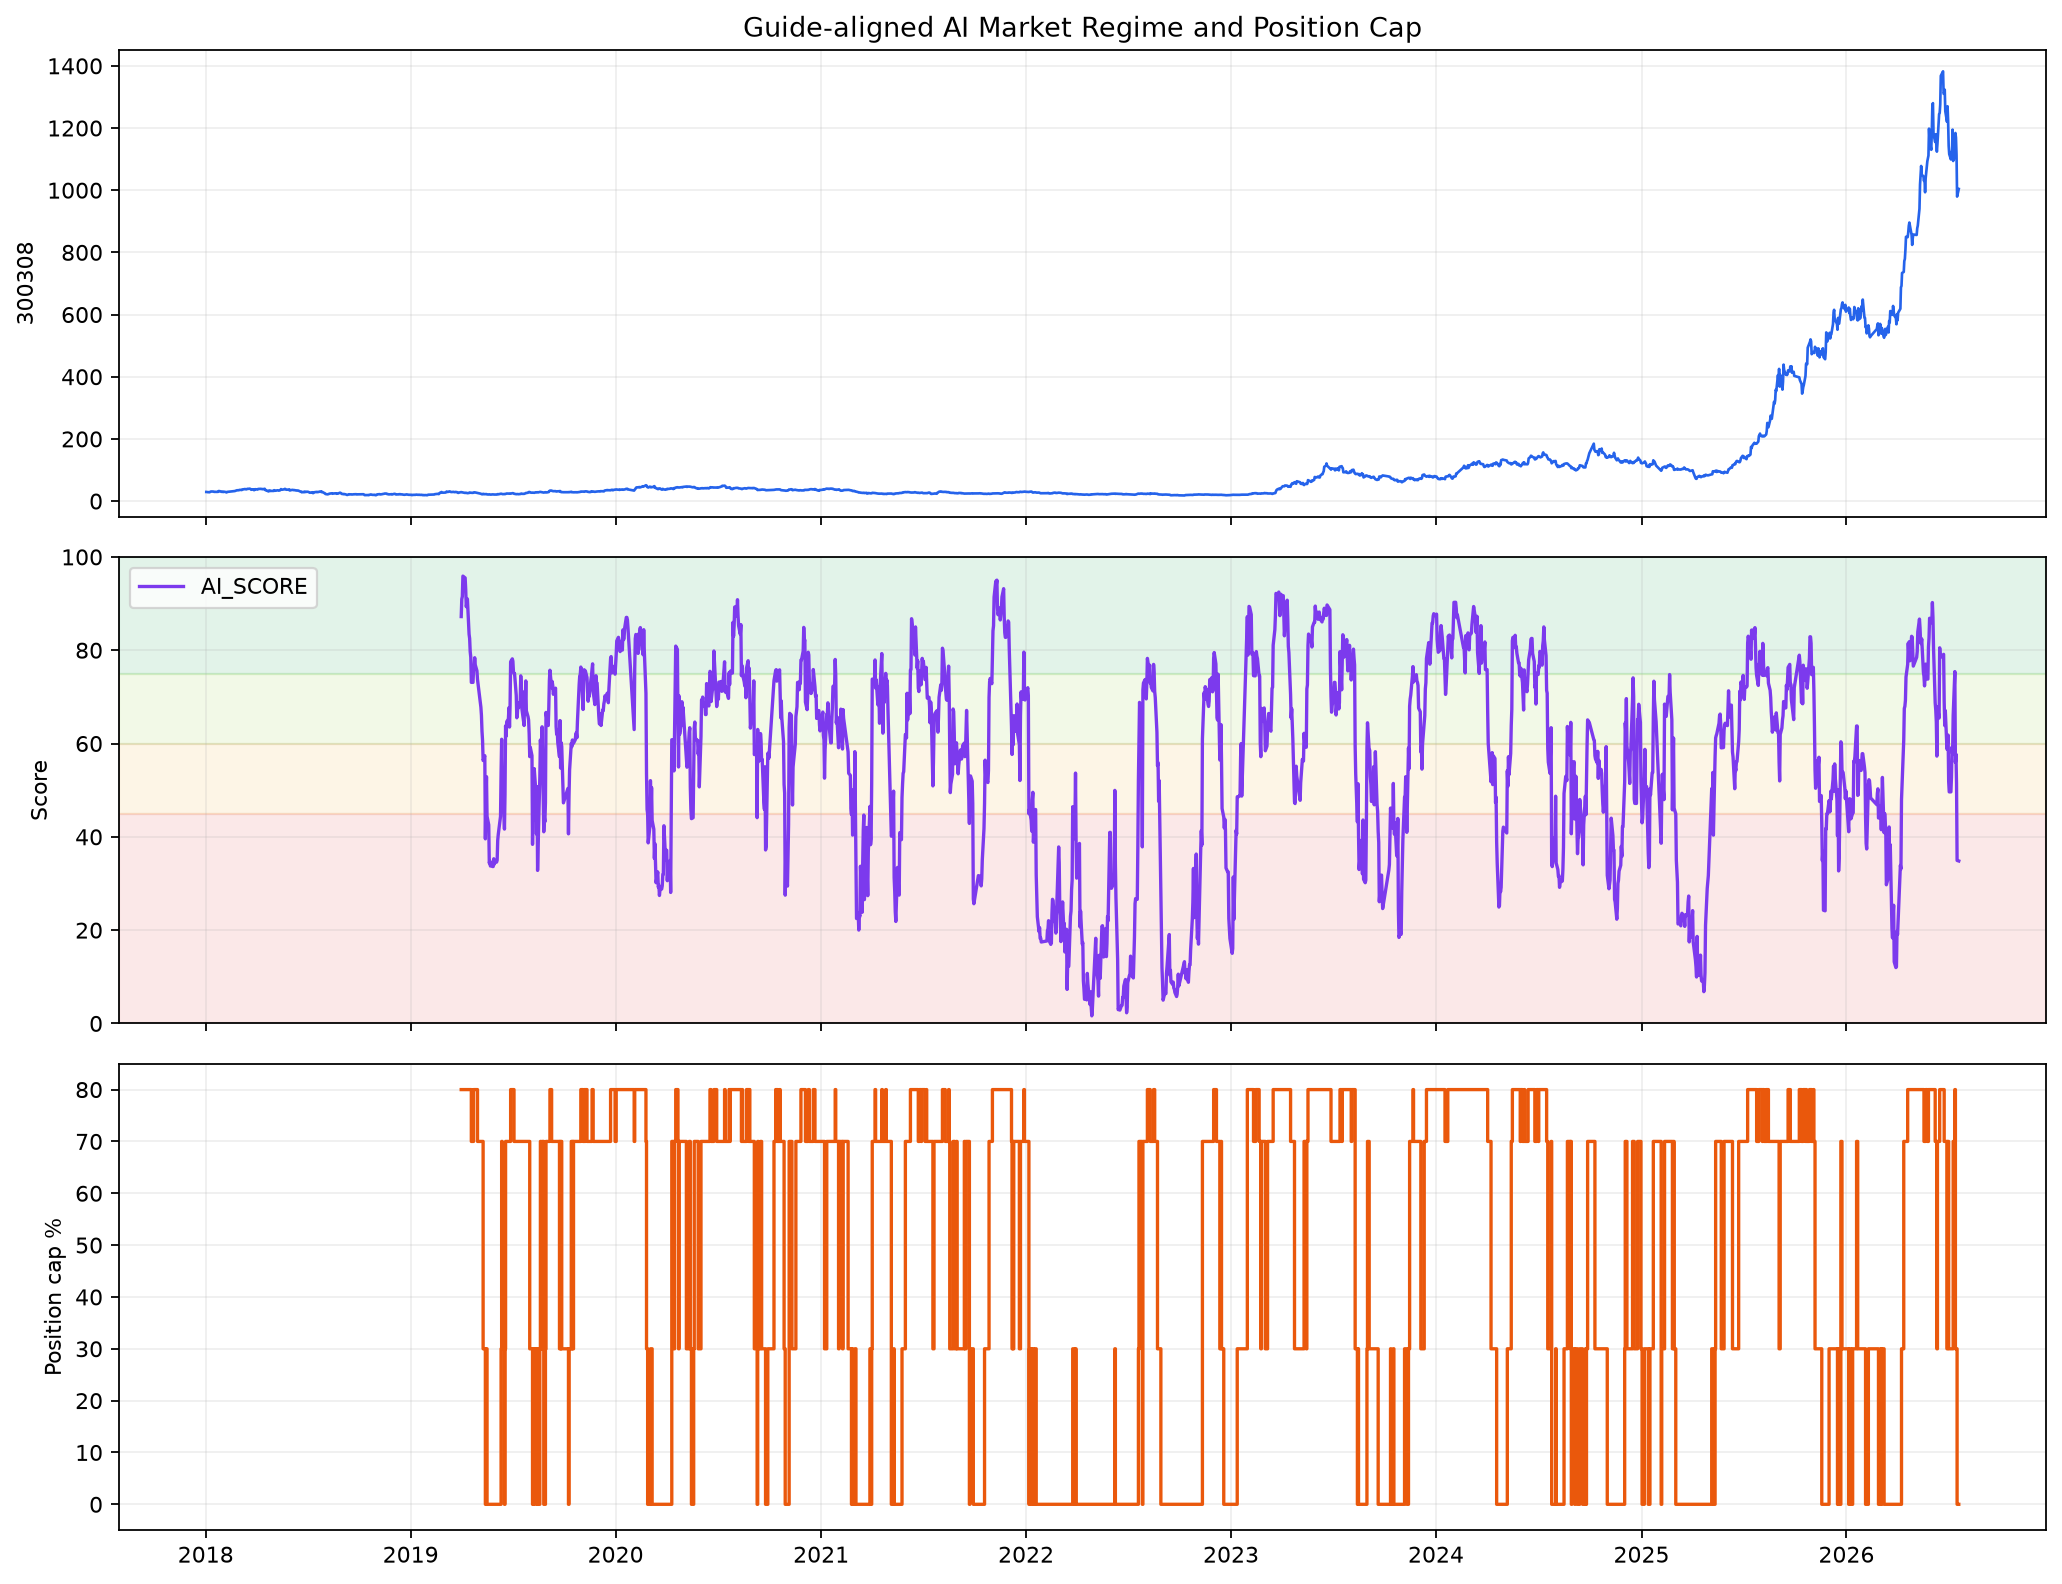
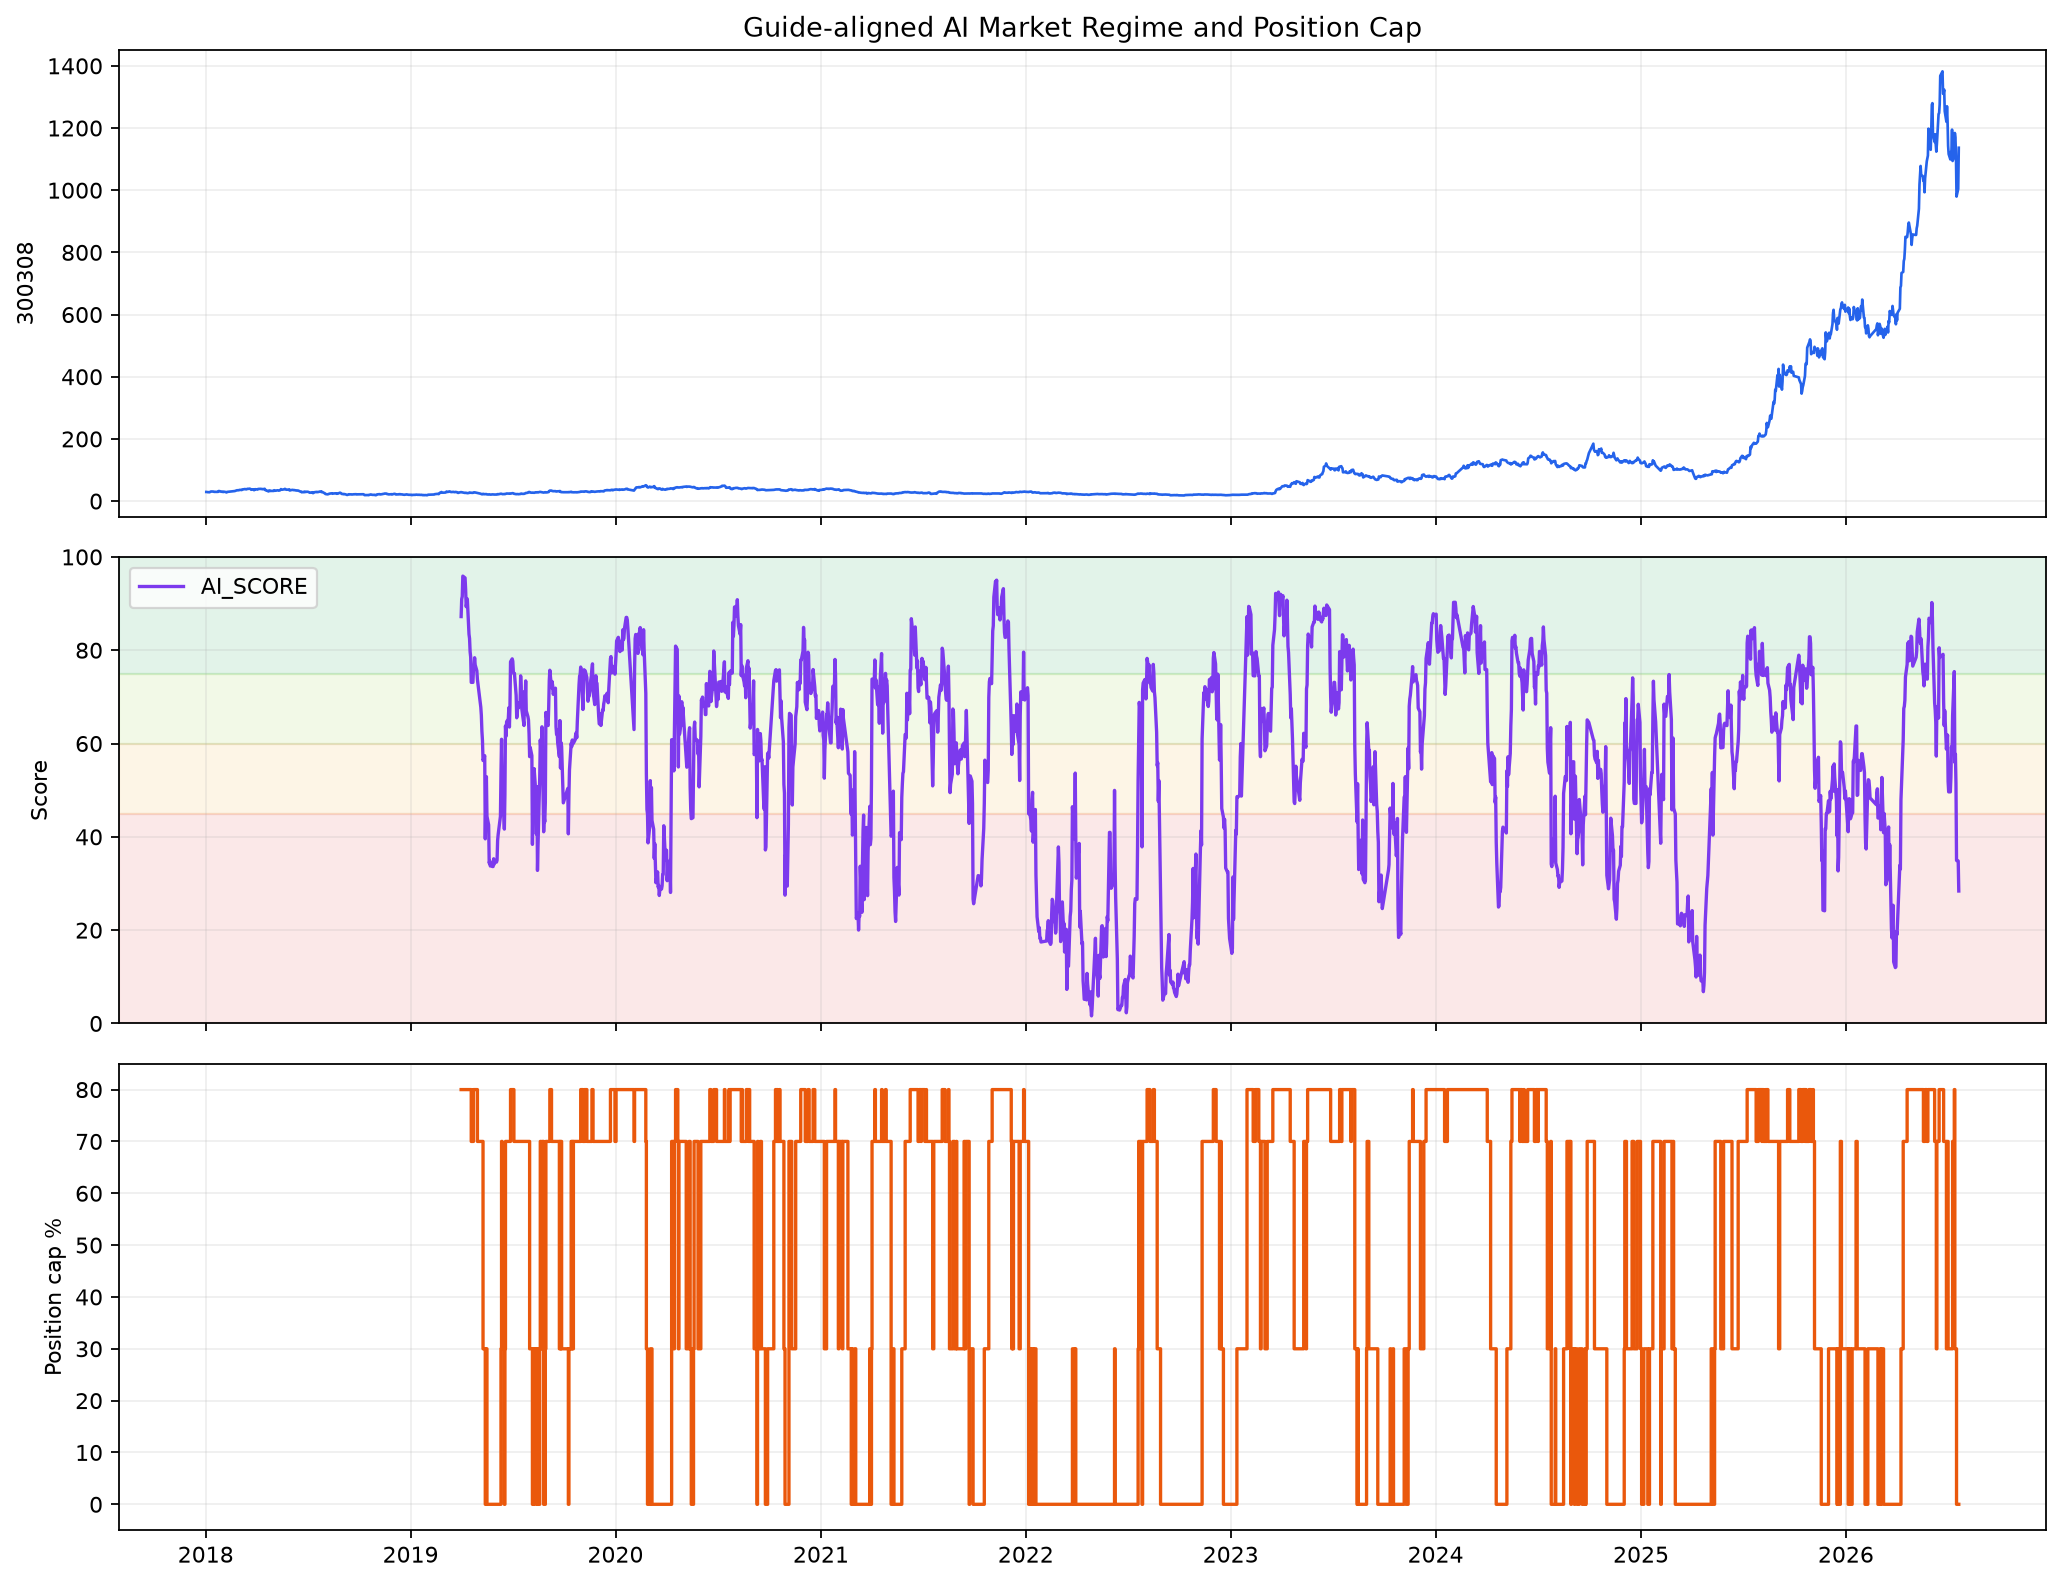
feat: add Choice Excel market data source

diff --git a/src/ai_market_regime/choice_data.py b/src/ai_market_regime/choice_data.py
@@ -1,0 +1,75 @@
+from __future__ import annotations
+
+from pathlib import Path
+
+import pandas as pd
+
+from .china_data import DataQualityError, file_sha256, validate_china_ohlcv
+
+
+CHOICE_COLUMN_MAP = {
+    "交易时间": "date",
+    "开盘价": "open",
+    "最高价": "high",
+    "最低价": "low",
+    "收盘价": "close",
+    "成交量": "volume",
+    "成交额": "amount",
+}
+
+
+def standardize_choice_frame(raw: pd.DataFrame, expected_symbol: str) -> pd.DataFrame:
+    """Normalize a Choice K-line export and discard footer/blank rows."""
+
+    frame = raw.rename(columns=lambda value: str(value).strip()).copy()
+    required = {"证券代码", *CHOICE_COLUMN_MAP}
+    missing = sorted(required.difference(frame.columns))
+    if missing:
+        raise DataQualityError(f"Choice export missing fields: {', '.join(missing)}")
+
+    frame = frame.rename(columns=CHOICE_COLUMN_MAP)
+    frame["date"] = pd.to_datetime(frame["date"], errors="coerce").dt.normalize()
+    frame = frame.loc[frame["date"].notna()].copy()
+    symbols = (
+        frame["证券代码"]
+        .astype(str)
+        .str.strip()
+        .str.replace(r"\.0$", "", regex=True)
+    )
+    unexpected = sorted(set(symbols[symbols != expected_symbol]))
+    if unexpected:
+        raise DataQualityError(
+            f"Choice export contains unexpected symbols: {', '.join(unexpected)}"
+        )
+
+    result = frame.loc[:, ["date", "open", "high", "low", "close", "volume", "amount"]].copy()
+    for column in ("open", "high", "low", "close", "volume", "amount"):
+        result[column] = pd.to_numeric(result[column], errors="coerce")
+    result = result.drop_duplicates("date", keep="last").set_index("date").sort_index()
+    result.index.name = "Date"
+    validate_china_ohlcv(result)
+    return result
+
+
+def load_choice_excel(
+    path: Path,
+    expected_symbol: str,
+    standardized_path: Path | None = None,
+) -> tuple[pd.DataFrame, dict[str, object]]:
+    """Load a local Choice Excel export as the preferred A-share source."""
+
+    raw = pd.read_excel(path)
+    frame = standardize_choice_frame(raw, expected_symbol)
+    report = validate_china_ohlcv(frame)
+    report.update(
+        {
+            "source": "choice_excel",
+            "source_file": path.name,
+            "source_sha256": file_sha256(path),
+            "fallback_errors": [],
+        }
+    )
+    if standardized_path is not None:
+        standardized_path.parent.mkdir(parents=True, exist_ok=True)
+        frame.to_csv(standardized_path, index_label="Date", encoding="utf-8-sig")
+    return frame, report

diff --git a/tests/test_scoring.py b/tests/test_scoring.py
@@ -5,6 +5,7 @@ import pytest
 from ai_market_regime import data as data_module
 from ai_market_regime.alignment import align_us_scores_to_china_dates, build_alignment_audit
 from ai_market_regime.china_data import DataQualityError, standardize_china_ohlcv, validate_china_ohlcv
+from ai_market_regime.choice_data import standardize_choice_frame
 from ai_market_regime.config import SystemConfig
 from ai_market_regime.scoring import build_backtest, build_market_scores, position_from_score, regime_cap_from_score, rolling_percentile
 
@@ -99,3 +100,25 @@ def test_partial_batch_download_is_completed_by_chart_fallback(tmp_path, monkeyp
     result = data_module.download_close_prices(config, tmp_path / "close.csv")
     assert result.loc[dates[1], config.growth_ticker] == 101.0
     assert all(result[ticker].notna().all() for ticker in config.all_tickers)
+
+
+def test_choice_export_discards_footer_and_validates_symbol():
+    raw = pd.DataFrame(
+        {
+            "证券代码": [300308.0, 300308.0, "数据来源：妙想Choice"],
+            "交易时间": ["2026-07-20", "2026-07-21", None],
+            "开盘价": [100.0, 102.0, np.nan],
+            "最高价": [105.0, 110.0, np.nan],
+            "最低价": [99.0, 101.0, np.nan],
+            "收盘价": [104.0, 109.0, np.nan],
+            "成交量": [1000.0, 1200.0, np.nan],
+            "成交额": [102000.0, 128000.0, np.nan],
+        }
+    )
+    bars = standardize_choice_frame(raw, "300308")
+    assert bars.index.tolist() == [pd.Timestamp("2026-07-20"), pd.Timestamp("2026-07-21")]
+    assert bars.loc[pd.Timestamp("2026-07-21"), "close"] == 109.0
+
+    raw.loc[0, "证券代码"] = "000001"
+    with pytest.raises(DataQualityError, match="unexpected symbols"):
+        standardize_choice_frame(raw, "300308")

diff --git a/src/ai_market_regime/pipeline.py b/src/ai_market_regime/pipeline.py
@@ -13,6 +13,7 @@ from .china_data import (
     download_china_ohlcv,
     file_sha256,
 )
+from .choice_data import load_choice_excel
 from .config import SystemConfig
 from .data import download_close_prices
 from .scoring import build_backtest, build_market_scores
@@ -127,11 +128,19 @@ def run_pipeline(root: Path, config: SystemConfig | None = None) -> dict[str, ob
     us_path = raw_dir / "us_adjusted_close.csv"
     us_close = download_close_prices(config, us_path)
     china_path = standardized_dir / "china_300308_qfq.csv"
-    china_bars, china_report = download_china_ohlcv(
-        config,
-        raw_path=raw_dir / "china_300308_latest_raw.csv",
-        standardized_path=china_path,
-    )
+    choice_path = root / "data" / "input" / "choice_300308.xlsx"
+    if choice_path.exists():
+        china_bars, china_report = load_choice_excel(
+            choice_path,
+            expected_symbol=config.target_symbol,
+            standardized_path=china_path,
+        )
+    else:
+        china_bars, china_report = download_china_ohlcv(
+            config,
+            raw_path=raw_dir / "china_300308_latest_raw.csv",
+            standardized_path=china_path,
+        )
     calendar = download_china_calendar(raw_dir / "china_trade_calendar.csv")
 
     us_scores = build_market_scores(us_close, config)

diff --git a/README.md b/README.md
@@ -32,6 +32,14 @@
 | 45–59.9 | 谨慎 | 30% | 30% |
 | < 45 | 防御 | 0% | 0% |
 
+## Choice Excel 数据
+
+如果无法使用 Choice API，可将中际旭创日线导出为 Excel，并保存为：
+
+    data/input/choice_300308.xlsx
+
+导出字段需要包含：证券代码、交易时间、开盘价、最高价、最低价、收盘价、成交量、成交额。系统会自动忽略空行和 Choice 页脚，验证证券代码与 OHLCV，并优先使用该文件；文件不存在时才回退到 AKShare/本地缓存。原始 Excel 默认被 Git 忽略，不会上传 GitHub。
+
 ## 安装与运行
 
 需要 Python 3.10 或更高版本。